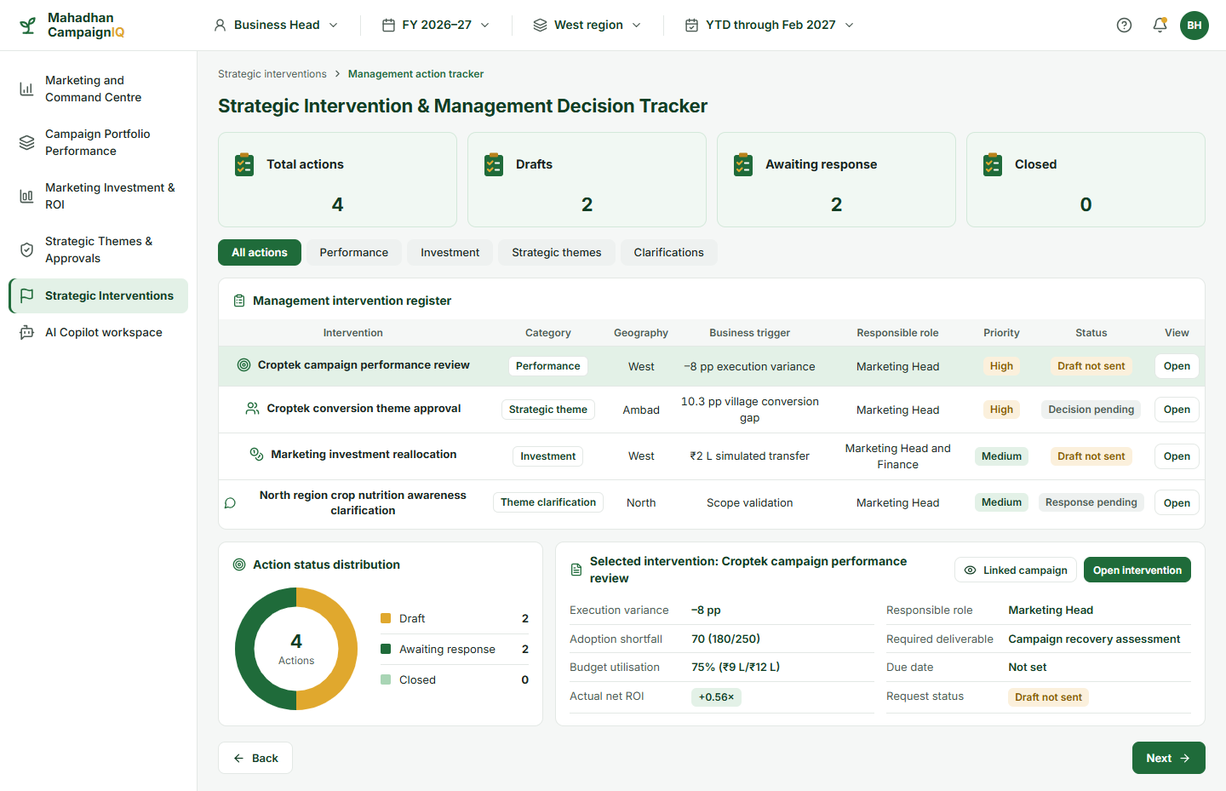
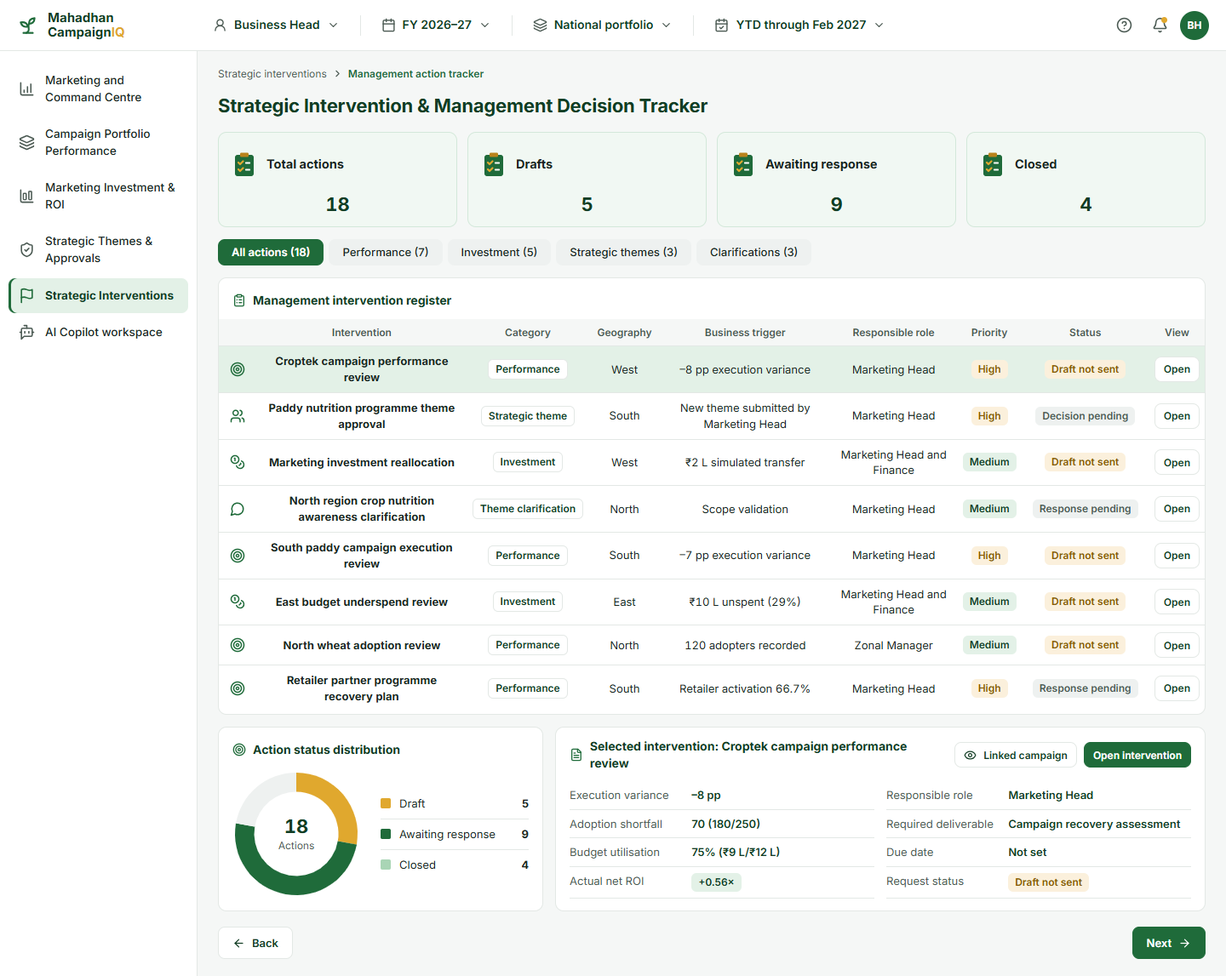
MH phase 1: Marketing Head data and tests, shared theme lifecycle with BH and ZM

diff --git a/campaigniq-v3/src/data/mh.ts b/campaigniq-v3/src/data/mh.ts
@@ -1,0 +1,160 @@
+/**
+ * Marketing Head data: national and regional opportunity, plan reviews, diagnosis and investigation, recommendations,
+ * proposals, rollout and performance. Shared figures are read from bh.ts, zm.ts and fsm.ts so every persona agrees.
+ * Money in ₹ lakh unless noted.
+ */
+import type { MhRegionId } from '../routes';
+import { AMBAD, ambadMetrics, CAMPAIGNS, campaignById, netRoi, NATIONAL, REGIONS, regionById, regionRoi, THEMES, type ThemeId } from './bh';
+import { ratio, sum } from './format';
+import { coverageCalc, ONION_VILLAGE_PLAN } from './fsm';
+import {
+  approvalQueue, businessCaseC1, businessCaseC2, CROPTEK_EVIDENCE, impactRows, REGIONAL_ENVELOPE, scenariosFor, territoryPlan, trialToPurchasePct,
+  ZM_TERRITORY_IDS, zmTerritoryName,
+} from './zm';
+
+// ---------------------------------------------------------------- regions (national view)
+export interface RegionOpportunity {
+  id: MhRegionId; market: number; /** ₹ Cr addressable market */ crop: string; product: string; marketRange: [number, number]; /** ₹ Cr, priority crop · product */
+  penetration: [number, number]; trend: number[]; /** ₹ L secondary sales Q1–Q4 */ level: 'High' | 'Medium–High' | 'Medium'; gap: string;
+}
+/** Addressable market per region (₹ Cr) sums to the ₹1,350 Cr national figure; West's priority market is Maharashtra onion. */
+export const REGION_OPPORTUNITY: RegionOpportunity[] = [
+  { id: 'west', market: 420, crop: 'Onion', product: 'Croptek', marketRange: [7, 10], penetration: CROPTEK_EVIDENCE.penetrationRange, trend: CROPTEK_EVIDENCE.secondarySales.map((q) => q.v), level: 'High', gap: 'High potential, under-indexing' },
+  { id: 'south', market: 380, crop: 'Paddy', product: 'Croptek', marketRange: [6, 9], penetration: [16, 20], trend: [34, 36, 39, 41], level: 'High', gap: 'Strong momentum, scale further' },
+  { id: 'north', market: 310, crop: 'Wheat', product: 'Croptek', marketRange: [5, 7], penetration: [12, 15], trend: [22, 23, 25, 26], level: 'Medium–High', gap: 'Stable, improve penetration' },
+  { id: 'east', market: 240, crop: 'Paddy', product: 'Croptek', marketRange: [3, 5], penetration: [9, 12], trend: [18, 19, 21, 23], level: 'Medium', gap: 'Emerging expansion opportunity' },
+];
+export const NATIONAL_MARKET = () => sum(REGION_OPPORTUNITY, (r) => r.market);
+export const regionName = (r: MhRegionId) => regionById(r).name;
+
+/** Region rows: opportunity plus the Business Head figures (sales, campaigns, adopters, investment, ROI). */
+export const regionRows = () => REGION_OPPORTUNITY.map((o) => {
+  const r = regionById(o.id);
+  const t = o.trend;
+  return {
+    ...o, name: r.name, abp: r.abp, achieved: r.achieved, campaigns: r.campaigns, adopters: r.adopters, investment: r.actual,
+    validatedSales: r.sales, roi: regionRoi(r), trendTotal: sum(t, (x) => x), trendGrowthPct: ratio(t[t.length - 1] - t[0], t[0]),
+  };
+});
+export const nationalRow = () => ({
+  market: NATIONAL_MARKET(), abp: NATIONAL.abp, achieved: NATIONAL.achieved, campaigns: NATIONAL.campaigns, adopters: NATIONAL.adopters,
+  investment: NATIONAL.actual, validatedSales: sum(REGIONS, (r) => r.sales), roi: netRoi(sum(REGIONS, (r) => r.sales), NATIONAL.actual),
+});
+
+// ---------------------------------------------------------------- historical campaign effectiveness (Business Head themes)
+const THEME_RANGES: Record<ThemeId, { engagement: [number, number]; adoption: [number, number]; confidence: 'Verified' | 'Estimated' | 'Partial attribution' }> = {
+  conversion: { engagement: [45, 55], adoption: [14, 20], confidence: 'Verified' },
+  retailer: { engagement: [58, 66], adoption: [8, 13], confidence: 'Estimated' },
+  trial: { engagement: [40, 50], adoption: [9, 15], confidence: 'Estimated' },
+  awareness: { engagement: [70, 78], adoption: [6, 10], confidence: 'Partial attribution' },
+};
+export const themeEffectiveness = () => THEMES.map((t) => ({ ...t, ...THEME_RANGES[t.id], roi: netRoi(t.sales, t.investment) }));
+
+// ---------------------------------------------------------------- West states and the Maharashtra onion market
+export const WEST_STATES: { state: string; market: [number, number]; penetration: [number, number] }[] = [
+  { state: 'Maharashtra', market: [7, 10], penetration: CROPTEK_EVIDENCE.penetrationRange },
+  { state: 'Gujarat', market: [5, 7], penetration: [18, 22] },
+  { state: 'Madhya Pradesh', market: [4, 6], penetration: [12, 16] },
+  { state: 'Rajasthan', market: [3, 5], penetration: [16, 20] },
+];
+export const westSalesTotal = () => sum(CROPTEK_EVIDENCE.secondarySales, (q) => q.v);
+/** Previous Croptek campaign effectiveness in Maharashtra onion. */
+export const PREVIOUS_CAMPAIGNS: { intervention: string; engagementPct: number; evidence: string; confidence: 'High' | 'Moderate' | 'Limited' }[] = [
+  { intervention: 'Retailer activation', engagementPct: 62, evidence: 'Higher offtake at participating outlets', confidence: 'High' },
+  { intervention: 'Conversion', engagementPct: 45, evidence: 'Improved product trials and repeat', confidence: 'Moderate' },
+  { intervention: 'Awareness', engagementPct: 74, evidence: 'Strong reach and interest generation', confidence: 'Limited' },
+];
+
+// ---------------------------------------------------------------- business and crop plans (from the Zonal Manager data)
+export type MhPlanStatus = 'reviewed' | 'under_review' | 'not_started' | 'clarification';
+export const MH_PLAN_LABEL: Record<MhPlanStatus, string> = { reviewed: 'Endorsed by Zonal Manager', under_review: 'Under review', not_started: 'Not started', clarification: 'Clarification requested' };
+/** West plans by state; Maharashtra rolls up the Zonal Manager's Marathwada territory plans. */
+export const WEST_PLANS: { id: string; state: string; crop: string; product: string; focus: string; objective: number; intervention: string; base: MhPlanStatus }[] = [
+  { id: 'maharashtra', state: 'Maharashtra', crop: 'Onion', product: 'Croptek', focus: 'Conversion', objective: CROPTEK_EVIDENCE.planLinkage, intervention: 'Retailer-led Croptek conversion', base: 'reviewed' },
+  { id: 'gujarat', state: 'Gujarat', crop: 'Priority crops', product: 'Crop nutrition', focus: 'Portfolio penetration', objective: 18, intervention: 'Awareness and portfolio education', base: 'under_review' },
+  { id: 'madhya-pradesh', state: 'Madhya Pradesh', crop: 'Priority crops', product: 'Croptek and portfolio', focus: 'Adoption', objective: 12, intervention: 'Adoption and trial support', base: 'not_started' },
+  { id: 'rajasthan', state: 'Rajasthan', crop: 'Priority crops', product: 'Nutrition portfolio', focus: 'Channel coverage', objective: 10, intervention: 'Channel activation and product visibility', base: 'not_started' },
+];
+/** Ambad contributing plan (equal to FSM and ZM): ABP, approved onion allocation and the onion growth objective. */
+export const ambadPlan = () => {
+  const p = territoryPlan('ambad');
+  return { abp: p.abp, plan: p.plan, onionAllocation: AMBAD.onionAbp, growthObjective: CROPTEK_EVIDENCE.planLinkage, croptekSku: p.croptekSku };
+};
+/** Other Maharashtra territories in the zone (consolidated). */
+export const otherMaharashtra = () => ZM_TERRITORY_IDS.filter((t) => t !== 'ambad').map((t) => territoryPlan(t));
+/** Village-wise Ambad onion plan: the FSM plan with its coverage calculation. */
+export const ambadVillages = () => ONION_VILLAGE_PLAN.map((v) => ({ ...v, calc: coverageCalc(v) }));
+
+// ---------------------------------------------------------------- diagnosis and investigation
+export const BARRIERS: { id: string; barrier: string; question: string; before: string; after: string; beforeTone: 'warn' | 'neutral'; afterTone: 'ok' | 'warn' | 'risk' }[] = [
+  { id: 'awareness', barrier: 'Awareness', question: 'Do eligible farmers know Croptek and its crop-stage use?', before: 'Unverified', after: 'Partly confirmed: 65% reached', beforeTone: 'warn', afterTone: 'warn' },
+  { id: 'conversion', barrier: 'Conversion', question: 'Do trials turn into purchases?', before: 'Not linked', after: 'Confirmed: 36% trial-to-purchase', beforeTone: 'warn', afterTone: 'risk' },
+  { id: 'channel', barrier: 'Channel', question: 'Do retailers recommend and stock Croptek?', before: 'Unverified', after: 'Partly confirmed: retailer evidence received', beforeTone: 'warn', afterTone: 'warn' },
+  { id: 'retention', barrier: 'Retention', question: 'Do buyers repeat next season?', before: 'No data', after: 'Not yet measurable this season', beforeTone: 'neutral', afterTone: 'warn' },
+];
+/** Funnel: 1,200 eligible → 780 reached → 150 trials → purchases (linked once the evidence is validated). */
+export const FUNNEL = { eligible: 1200, reached: 780, trials: CROPTEK_EVIDENCE.trials, purchases: CROPTEK_EVIDENCE.purchases };
+export const funnel = (purchasesLinked: boolean) => ({
+  ...FUNNEL, purchases: purchasesLinked ? FUNNEL.purchases : null,
+  reachPct: ratio(FUNNEL.reached, FUNNEL.eligible), trialPct: ratio(FUNNEL.trials, FUNNEL.reached),
+  trialToPurchasePct: purchasesLinked ? trialToPurchasePct() : null,
+});
+export type RequestStatus = 'draft' | 'requested' | 'received' | 'validated';
+export const REQUEST_STATUS_LABEL: Record<RequestStatus, string> = { draft: 'Draft', requested: 'Requested', received: 'Evidence received', validated: 'Validated' };
+export const EVIDENCE_REQUESTS: { id: string; title: string; owner: string; due: string; requirements: string[]; checklist: string[] }[] = [
+  { id: 'purchases', title: 'Farmer-linked purchase records', owner: 'Zonal analyst', due: '20 Feb 2027', requirements: ['Farmer ID or mobile number', 'Croptek SKU and quantity', 'Purchase date within the campaign window'], checklist: ['Records matched to trial farmers', 'Duplicates removed', 'Dates inside the campaign window'] },
+  { id: 'awareness', title: 'Awareness and call outcomes', owner: 'Field Sales Manager · Ambad', due: '22 Feb 2027', requirements: ['Reached farmer list', 'Call outcome codes', 'Consent status'], checklist: ['Reach list reconciled', 'Outcome codes complete', 'Consent recorded'] },
+  { id: 'retailer', title: 'Retailer recommendation evidence', owner: 'Retail operations', due: '24 Feb 2027', requirements: ['Retailers briefed', 'Recommendation logs', 'Stock on hand'], checklist: ['Retailer list matches the mapped outlets', 'Recommendation logs present', 'Stock confirmed'] },
+];
+/** Status progression when the Marketing Head requests and reviews evidence. */
+export const nextRequestStatus = (s: RequestStatus): RequestStatus => (s === 'draft' ? 'requested' : s === 'requested' ? 'received' : 'validated');
+
+// ---------------------------------------------------------------- recommendations
+export interface Recommendation { id: string; name: string; theme: ThemeId; leading: boolean; before: 'Medium' | 'Low' | 'Medium-low'; after: 'High' | 'Medium' | 'Medium-low'; rationale: string; missing: string[]; suitability: string }
+export const RECOMMENDATIONS: Recommendation[] = [
+  { id: 'croptek-conversion', name: 'Croptek conversion', theme: 'conversion', leading: true, before: 'Medium', after: 'High', rationale: 'Large onion market with 14–18% penetration, rising secondary sales and a measured trial-to-purchase gap.', missing: ['Comparable baseline', 'Retailer stock norms'], suitability: 'Fits the Ambad onion growth objective and the conversion theme (+0.40× historical ROI).' },
+  { id: 'product-awareness', name: 'Product awareness', theme: 'awareness', leading: false, before: 'Medium-low', after: 'Medium-low', rationale: 'Reach is already 65% of eligible farmers; awareness alone shows the lowest historical return.', missing: ['Awareness lift measure'], suitability: 'Supports conversion but returns +0.10× on its own.' },
+  { id: 'retailer-advocacy', name: 'Retailer advocacy', theme: 'retailer', leading: false, before: 'Low', after: 'Medium', rationale: 'Retailer recommendation evidence links to higher offtake at participating outlets.', missing: ['Retailer participation plan'], suitability: 'Pairs with conversion as its channel lever (+0.40× historical ROI).' },
+];
+export const themeRoi = (t: ThemeId) => { const x = THEMES.find((y) => y.id === t)!; return netRoi(x.sales, x.investment); };
+
+// ---------------------------------------------------------------- proposals (equal to the Zonal Manager figures)
+export const proposals = () => {
+  const c1 = businessCaseC1();
+  const c2 = businessCaseC2();
+  return [
+    { id: 'c1', code: 'C1', name: 'Retailer-led Croptek conversion', investment: c1.investment, sales: c1.forecastSales, contribution: c1.contribution, roi: c1.netRoi, scenarios: scenariosFor() },
+    { id: 'c2', code: 'C2', name: 'Trial-to-purchase farmer nurture', investment: c2.investment, sales: c2.forecastSales, contribution: c2.contribution, roi: c2.netRoi, scenarios: null },
+  ];
+};
+export const APPROVAL_ITEMS: { id: string; item: string; mandatory: boolean; base: 'verified' | 'pending' }[] = [
+  { id: 'abp', item: 'Business plan linkage (₹25 L inside the Ambad ABP)', mandatory: true, base: 'verified' },
+  { id: 'claims', item: 'Technical claims and collateral validated', mandatory: true, base: 'pending' },
+  { id: 'envelope', item: 'Regional envelope (₹12.0 L) approved', mandatory: true, base: 'verified' },
+  { id: 'overlap', item: 'C1 / C2 audience overlap resolved', mandatory: true, base: 'pending' },
+  { id: 'baseline', item: 'Incrementality baseline agreed', mandatory: false, base: 'pending' },
+];
+
+// ---------------------------------------------------------------- rollout
+export const ROLLOUT_ENVELOPE = () => REGIONAL_ENVELOPE();
+export type RolloutStatus = 'running' | 'eligible' | 'pending' | 'not_eligible';
+export const ROLLOUT_LABEL: Record<RolloutStatus, string> = { running: 'Running', eligible: 'Eligible', pending: 'Plan pending', not_eligible: 'Not eligible' };
+export const rolloutTerritories = () => {
+  const q = approvalQueue();
+  const base: Record<string, RolloutStatus> = { ambad: 'running', ghansawangi: 'eligible', badnapur: 'pending', jafrabad: 'pending', bhokardan: 'eligible' };
+  return [
+    ...ZM_TERRITORY_IDS.map((t) => ({ id: t, name: zmTerritoryName(t), fsm: `Field Sales Manager · ${zmTerritoryName(t)}`, budget: q.find((x) => x.territory === t)!.budget, status: base[t] })),
+    { id: 'other', name: 'Other Maharashtra territories', fsm: 'Field Sales Managers (4)', budget: 2.3, status: 'pending' as RolloutStatus },
+  ];
+};
+export const STAGE_COUNTS = [{ stage: 'Published', n: 12 }, { stage: 'Submitted', n: 8 }, { stage: 'Approved', n: 6 }, { stage: 'Running', n: 4 }];
+
+// ---------------------------------------------------------------- performance (equal to the Business Head)
+export const westCampaigns = () => CAMPAIGNS.map((c) => ({ ...c, variance: c.observedExec - c.plannedExec, roi: netRoi(c.sales, c.actual) }));
+export const programmeVariance = () => { const c = campaignById('croptek'); return c.observedExec - c.plannedExec; };
+export const INTERVENTION_PERFORMANCE: { id: string; name: string; planned: number; observed: number }[] = [
+  { id: 'retailer', name: 'Retailer-led activation', planned: 80, observed: 72 },
+  { id: 'followup', name: 'Farmer follow-up', planned: 70, observed: 48 },
+];
+export const territoryImpact = () => impactRows();
+export const ambadSummary = () => ambadMetrics();

diff --git a/campaigniq-v3/src/data/mh.test.ts b/campaigniq-v3/src/data/mh.test.ts
@@ -1,0 +1,85 @@
+import { describe, expect, it } from 'vitest';
+import { AMBAD, ambadMetrics, businessCase, NATIONAL, REGIONS, THEME_QUEUE, territoryById } from './bh';
+import { sum } from './format';
+import { ONION_VILLAGE_PLAN } from './fsm';
+import {
+  ambadPlan, ambadVillages, APPROVAL_ITEMS, EVIDENCE_REQUESTS, funnel, NATIONAL_MARKET, nationalRow, nextRequestStatus, proposals, RECOMMENDATIONS,
+  REGION_OPPORTUNITY, regionRows, rolloutTerritories, ROLLOUT_ENVELOPE, STAGE_COUNTS, themeEffectiveness, WEST_STATES, westCampaigns, westSalesTotal,
+  programmeVariance, INTERVENTION_PERFORMANCE,
+} from './mh';
+import { businessCaseC1, ZM_THEMES, zmImpact } from './zm';
+
+const r1 = (x: number) => Math.round(x * 10) / 10;
+const r2 = (x: number) => Math.round(x * 100) / 100;
+
+describe('national and regional opportunity', () => {
+  it('regions sum to the national figures and equal the Business Head regions', () => {
+    expect(NATIONAL_MARKET()).toBe(1350);
+    const rows = regionRows();
+    expect(rows.map((r) => [r.abp, r.campaigns, r.adopters, r.investment, r.validatedSales])).toEqual(REGIONS.map((r) => [r.abp, r.campaigns, r.adopters, r.actual, r.sales]));
+    const n = nationalRow();
+    expect([n.abp, n.campaigns, n.adopters, n.investment]).toEqual([NATIONAL.abp, NATIONAL.campaigns, NATIONAL.adopters, NATIONAL.actual]);
+    expect(REGION_OPPORTUNITY.map((r) => `${r.crop} · ${r.product}`)).toEqual(['Onion · Croptek', 'Paddy · Croptek', 'Wheat · Croptek', 'Paddy · Croptek']);
+  });
+  it('historical effectiveness = Business Head themes: ₹2.56 / 1.92 / 1.70 / 0.88 Cr at +0.40 / +0.40 / +0.19 / +0.10×', () => {
+    expect(themeEffectiveness().map((t) => [t.sales, r2(t.roi)])).toEqual([[256, 0.4], [192, 0.4], [170, 0.19], [88, 0.1]]);
+  });
+  it('Maharashtra onion: ₹7–10 Cr, 14–18%, ₹40 → 48 L, ₹1.76 Cr over four quarters; 4 West states', () => {
+    expect(WEST_STATES[0]).toEqual({ state: 'Maharashtra', market: [7, 10], penetration: [14, 18] });
+    expect(westSalesTotal()).toBe(176);
+    expect(WEST_STATES).toHaveLength(4);
+  });
+});
+
+describe('plans, diagnosis and recommendations', () => {
+  it('Ambad plan equals FSM / ZM: ₹4.20 Cr ABP, ₹1.90 Cr onion allocation, ₹25 L objective; villages from FSM', () => {
+    const a = ambadPlan();
+    expect([a.abp, a.onionAllocation, a.growthObjective, a.plan]).toEqual([territoryById('ambad')!.abp, AMBAD.onionAbp, 25, 380]);
+    expect(ambadVillages().map((v) => v.village)).toEqual(ONION_VILLAGE_PLAN.map((v) => v.village));
+  });
+  it('funnel: 1,200 → 780 → 150 → 54 purchases once linked (36%)', () => {
+    expect(funnel(false).purchases).toBeNull();
+    const f = funnel(true);
+    expect([f.eligible, f.reached, f.trials, f.purchases, f.trialToPurchasePct]).toEqual([1200, 780, 150, 54, 36]);
+  });
+  it('3 evidence requests progress draft → requested → received → validated; 3 recommendations, Croptek leading', () => {
+    expect(EVIDENCE_REQUESTS).toHaveLength(3);
+    expect(['draft', 'requested', 'received'].map((s) => nextRequestStatus(s as never))).toEqual(['requested', 'received', 'validated']);
+    expect(RECOMMENDATIONS.filter((r) => r.leading).map((r) => r.name)).toEqual(['Croptek conversion']);
+  });
+});
+
+describe('theme lifecycle and proposals', () => {
+  it('lifecycle agrees: BH approved Croptek conversion, ZM acknowledged it; 3 BH items pending', () => {
+    expect(THEME_QUEUE.find((t) => t.id === 'croptek-next')!.status).toBe('approved');
+    expect(THEME_QUEUE.filter((t) => t.status !== 'approved').map((t) => t.name)).toEqual(['Multi-region retailer advocacy', 'North region crop nutrition awareness', 'Paddy nutrition programme']);
+    expect(ZM_THEMES.find((t) => t.id === 'croptek-conversion')!.status).toBe('acknowledged');
+    expect(ZM_THEMES.map((t) => t.name)).toEqual(['Croptek conversion', 'Nutrient programme adoption', 'Balanced nutrition awareness']);
+  });
+  it('proposal ROIs follow (sales × 35% − investment) ÷ investment and equal ZM / BH', () => {
+    const [c1, c2] = proposals();
+    expect([c1.investment, c1.sales, r1(c1.contribution), r2(c1.roi)]).toEqual([12, 48, 16.8, 0.4]);
+    expect(c1.roi).toBeCloseTo(businessCase('croptek').netRoi, 10);
+    expect(c1.scenarios!.map((s) => [r1(s.sales), r2(s.netRoi)])).toEqual([[36, 0.05], [48, 0.4], [60, 0.75]]);
+    expect([c2.investment, c2.sales, r1(c2.contribution), c2.roi]).toEqual([8, 28, 9.8, 0.23]);
+    expect(c1.investment).toBe(businessCaseC1().investment);
+    expect(APPROVAL_ITEMS.filter((i) => i.mandatory).length).toBe(4);
+  });
+});
+
+describe('rollout and performance', () => {
+  it('rollout budgets fill the ₹12.0 L envelope; Ambad running; stage counts 12 → 8 → 6 → 4', () => {
+    expect(r2(sum(rolloutTerritories(), (t) => t.budget))).toBe(ROLLOUT_ENVELOPE());
+    expect(rolloutTerritories().find((t) => t.id === 'ambad')!.status).toBe('running');
+    expect(STAGE_COUNTS.map((s) => s.n)).toEqual([12, 8, 6, 4]);
+  });
+  it('West, Croptek and Ambad equal BH: 80% / 72%, 180 adopters, +0.56×, −8 pp; follow-up −22 pp', () => {
+    const c = westCampaigns().find((x) => x.id === 'croptek')!;
+    expect([c.plannedExec, c.observedExec, c.adopters, r2(c.roi)]).toEqual([80, 72, 180, 0.56]);
+    expect(programmeVariance()).toBe(-8);
+    expect(INTERVENTION_PERFORMANCE.map((i) => i.observed - i.planned)).toEqual([-8, -22]);
+    const z = zmImpact();
+    const a = ambadMetrics();
+    expect([z.trials, z.adopters, z.activitiesDone]).toEqual([a.trials, a.adopters, a.activitiesDone]);
+  });
+});

diff --git a/campaigniq-v3/src/data/bh.ts b/campaigniq-v3/src/data/bh.ts
@@ -312,9 +312,10 @@ export interface ThemeProposal {
 }
 
 export const THEME_QUEUE: ThemeProposal[] = [
-  { id: 'croptek-next', name: 'Croptek conversion', geography: 'West / Maharashtra', state: 'Maharashtra', region: 'west', cropProduct: 'Onion / Croptek', crop: 'Onion', product: 'Croptek', proposedBy: 'Marketing Head', priority: 'High', status: 'review_pending', objective: 'Farmer conversion', cohort: 'Eligible non-adopters and trial users', focus: 'Conversion & adoption' },
+  { id: 'croptek-next', name: 'Croptek conversion', geography: 'West / Maharashtra', state: 'Maharashtra', region: 'west', cropProduct: 'Onion / Croptek', crop: 'Onion', product: 'Croptek', proposedBy: 'Marketing Head', priority: 'High', status: 'approved', objective: 'Farmer conversion', cohort: 'Eligible non-adopters and trial users', focus: 'Conversion & adoption' },
   { id: 'retailer-advocacy', name: 'Multi-region retailer advocacy', geography: 'Multi-region', state: 'Multi-region', region: 'multi', cropProduct: 'Pending validation', crop: null, product: null, proposedBy: 'Marketing Head', priority: 'High', status: 'review_pending', objective: 'Retailer advocacy', cohort: 'Priority retailers', focus: 'Retailer enablement' },
   { id: 'north-awareness', name: 'North region crop nutrition awareness', geography: 'North', state: 'North region', region: 'north', cropProduct: 'Pending', crop: null, product: null, proposedBy: 'Marketing Head', priority: 'Medium', status: 'clarification_requested', objective: 'Crop nutrition awareness', cohort: 'Pending', focus: 'Crop nutrition awareness' },
+  { id: 'paddy-south', name: 'Paddy nutrition programme', geography: 'South', state: 'South region', region: 'south', cropProduct: 'Paddy / Croptek', crop: 'Paddy', product: 'Croptek', proposedBy: 'Marketing Head', priority: 'Medium', status: 'review_pending', objective: 'Nutrition programme adoption', cohort: 'Paddy growers in mapped retailer catchments', focus: 'Conversion & adoption' },
 ];
 
 /** Theme candidates surfaced by the market opportunity view (Ambad / Onion / Croptek evidence). */
@@ -349,10 +350,9 @@ export interface Intervention {
 
 export const initialInterventions = (): Intervention[] => {
   const c = campaignMetrics(campaignById('croptek'));
-  const a = ambadMetrics();
   return [
     { id: 'croptek-review', name: 'Croptek campaign performance review', category: 'Performance', geography: 'West', trigger: `${c.execVariance} pp execution variance`.replace('-', '–'), role: 'Marketing Head', priority: 'High', status: 'draft', statusLabel: 'Draft not sent', campaign: 'croptek', deliverable: 'Campaign recovery assessment' },
-    { id: 'croptek-theme-approval', name: 'Croptek conversion theme approval', category: 'Strategic theme', geography: 'Ambad', trigger: `${a.villageGap.toFixed(1)} pp village conversion gap`, role: 'Marketing Head', priority: 'High', status: 'awaiting_response', statusLabel: 'Decision pending', deliverable: 'Theme decision' },
+    { id: 'paddy-theme-approval', name: 'Paddy nutrition programme theme approval', category: 'Strategic theme', geography: 'South', trigger: 'New theme submitted by Marketing Head', role: 'Marketing Head', priority: 'High', status: 'awaiting_response', statusLabel: 'Decision pending', deliverable: 'Theme decision' },
     { id: 'reallocation', name: 'Marketing investment reallocation', category: 'Investment', geography: 'West', trigger: `₹${DEFAULT_REALLOCATION.amount} L simulated transfer`, role: 'Marketing Head and Finance', priority: 'Medium', status: 'draft', statusLabel: 'Draft not sent', deliverable: 'Finance validation of reallocation' },
     { id: 'north-clarification', name: 'North region crop nutrition awareness clarification', category: 'Theme clarification', geography: 'North', trigger: 'Scope validation', role: 'Marketing Head', priority: 'Medium', status: 'awaiting_response', statusLabel: 'Response pending', deliverable: 'Clarified theme scope' },
     { id: 'south-paddy-review', name: 'South paddy campaign execution review', category: 'Performance', geography: 'South', trigger: '–7 pp execution variance', role: 'Marketing Head', priority: 'High', status: 'draft', statusLabel: 'Draft not sent', deliverable: 'Campaign recovery assessment' },

diff --git a/campaigniq-v3/src/screens/zm/Business.tsx b/campaigniq-v3/src/screens/zm/Business.tsx
@@ -294,8 +294,8 @@ export function AudienceReconciliation() {
 }
 
 // ================================================================ 18 Proposal Review and Submission
-const STATUS_LABEL: Record<ProposalStatus, string> = { draft: 'Checks pending', submitted: 'Submitted · returned for revision', resubmitted: 'Resubmitted to Marketing Head' };
-const STATUS_TONE: Record<ProposalStatus, Tone> = { draft: 'warn', submitted: 'risk', resubmitted: 'ok' };
+const STATUS_LABEL: Record<ProposalStatus, string> = { draft: 'Checks pending', submitted: 'Submitted to Marketing Head', returned: 'Returned for revision', resubmitted: 'Resubmitted to Marketing Head', approved: 'Approved by Marketing Head' };
+const STATUS_TONE: Record<ProposalStatus, Tone> = { draft: 'warn', submitted: 'warn', returned: 'risk', resubmitted: 'warn', approved: 'ok' };
 function useProposalFigures() {
   const d = useDrivers();
   const zm = useZmStore();
@@ -348,7 +348,7 @@ export function ProposalReview() {
             { key: 'n', header: 'Forecast contribution', align: 'right', render: (p) => l1(f(p.id).contribution) },
             { key: 'r', header: 'Forecast net ROI', align: 'right', render: (p) => times(f(p.id).roi) },
             { key: 'v', header: 'Status', align: 'center', render: (p) => <StatusChip tone={STATUS_TONE[st(p.id)]}>{STATUS_LABEL[st(p.id)]}</StatusChip> },
-            { key: 'a', header: 'Review', align: 'center', render: (p) => (st(p.id) === 'submitted'
+            { key: 'a', header: 'Review', align: 'center', render: (p) => (st(p.id) === 'returned'
               ? <Button small primary icon={History} onClick={() => go(Z.revise(p.id))}>Revise</Button>
               : <Button small icon={Eye} onClick={() => setFocus(p.id)}>Review</Button>) },
           ]} />
@@ -477,7 +477,7 @@ export function ProposalRevision() {
   };
   return (
     <ZmPage {...ZM_SECTION.studio} trail="Returned proposals" title="Revision and Resubmission Workspace" back={Z.proposals} next={resubmit} nextLabel="Resubmit revised proposal to Marketing Head"
-      right={<StatusChip tone={status === 'resubmitted' ? 'ok' : status === 'submitted' ? 'risk' : 'neutral'}>{status === 'resubmitted' ? 'Resubmitted' : status === 'submitted' ? 'Returned for revision · not approved' : 'Not yet submitted'}</StatusChip>}>
+      right={<StatusChip tone={STATUS_TONE[status]}>{status === 'returned' ? 'Returned for revision · not approved' : STATUS_LABEL[status]}</StatusChip>}>
       <StudioTabs active={4} />
       <div className="kpis">
         <KpiCard label="Submitted investment (version 1)" value={l1(d.investment)} />

diff --git a/campaigniq-v3/src/store/zmStore.tsx b/campaigniq-v3/src/store/zmStore.tsx
@@ -72,14 +72,14 @@ export interface DraftSetup { audience: string; language: string; objective: str
 
 export interface InterventionConfig { objective: string; behaviour: string; participants: string; types: string[]; channel: string; crop: string; geography: string; window: string; resources: string }
 
-const KEY = 'campaigniq.v3.zm.7';
+const KEY = 'campaigniq.v3.zm.8';
 const INITIAL: ZmState = { scope: 'zone', portfolio: 'crop-nutrition', planDecisions: {}, mapping: {}, mappingChecks: {}, comments: {}, cropValidated: {}, questions: {}, responses: {},
   themeStatus: {}, acknowledgements: {}, clarifications: [], concepts: null, selectedConcepts: ['c1'],
   workspace: { intent: 'Drive eligible first-purchase conversion under Croptek.', behaviour: 'Move from recommendation or trial to first purchase.', notes: '' },
   compareDecision: 'separate', proposition: {}, interventions: {}, readinessChecks: [], claims: {},
   template: 'detailer', draftSetup: null, versions: null, reviews: {}, submittedForReview: false, assetStatus: {}, playbookIncluded: ['detailer'], released: false,
   drivers: null, scenario: 'base', financeRequested: false, reconDecision: 'separate',
-  proposalStatus: { c1: 'draft', c2: 'draft' }, selectedProposals: ['c1'], submissionChecks: [], revision: null,
+  proposalStatus: { c1: 'submitted', c2: 'submitted' }, selectedProposals: ['c1'], submissionChecks: [], revision: null,
   approvalStatus: {}, accepted: {}, activityChecks: {}, escalated: {},
   learningSaved: false, recSelected: null, recPriority: {}, recOption: 'submit', recStatus: 'draft', asked: [] };
 

diff --git a/campaigniq-v3/src/data/zm.ts b/campaigniq-v3/src/data/zm.ts
@@ -220,7 +220,7 @@ export interface ZmTheme {
 }
 export const ZM_THEMES: ZmTheme[] = [
   {
-    id: 'croptek-conversion', name: 'Croptek conversion', crop: 'Onion', product: 'Croptek', geography: 'Maharashtra', region: 'West region', status: 'acknowledgement_pending', assignedBy: 'Marketing Head', due: '15 Mar 2027',
+    id: 'croptek-conversion', name: 'Croptek conversion', crop: 'Onion', product: 'Croptek', geography: 'Maharashtra', region: 'West region', status: 'acknowledged', assignedBy: 'Marketing Head', due: '15 Mar 2027',
     objective: 'Strengthen eligible farmer conversion and Croptek adoption.',
     scope: 'Maharashtra · Onion (initial focus); other West region markets after eligibility checks.',
     audience: 'Conventional nutrition and trial-interest farmers who meet eligibility and consent.',
@@ -491,7 +491,8 @@ export const reconciliation = (d: Drivers = DRIVERS) => {
 };
 
 // ---------------------------------------------------------------- proposals and revision
-export type ProposalStatus = 'draft' | 'submitted' | 'resubmitted';
+/** Proposal lifecycle shared with the Marketing Head: submitted to MH, returned for revision, resubmitted, approved. */
+export type ProposalStatus = 'draft' | 'submitted' | 'returned' | 'resubmitted' | 'approved';
 export const PROPOSALS: { id: 'c1' | 'c2'; label: string; focus: string }[] = [
   { id: 'c1', label: 'Proposal A', focus: 'Convert conventional nutrition users through retailer influence' },
   { id: 'c2', label: 'Proposal B', focus: 'Drive trials and nurture to purchase in target villages' },

diff --git a/campaigniq-v3/src/shell/Shell.tsx b/campaigniq-v3/src/shell/Shell.tsx
@@ -88,7 +88,7 @@ export function Shell({ session, onSignOut }: { session: Session; onSignOut: () 
   const me = PERSONAS.find((p) => p.id === persona)!;
   const nav_ = isFsm ? NAV_FSM : isZm ? NAV_ZM : isMh ? NAV_MH : NAV;
   const active = isFsm ? fsmNavKeyOf(pathname) : isZm ? zmNavKeyOf(pathname) : isMh ? mhNavKeyOf(pathname) : navKeyOf(pathname);
-  const zmAlerts = zm.proposalStatus.c1 === 'submitted' ? [{ id: 'mh-return-c1', text: 'Marketing Head returned C1 for revision', to: Z.revise('c1') }] : [];
+  const zmAlerts = zm.proposalStatus.c1 === 'returned' ? [{ id: 'mh-return-c1', text: 'Marketing Head returned C1 for revision', to: Z.revise('c1') }] : [];
   const alerts = isFsm || isMh ? [] : isZm ? zmAlerts : attentionItems(store.themeStatus);
   const scopes: { id: string; label: string }[] = isFsm ? FSM_SCOPES : isZm ? ZM_SCOPES : isMh ? MH_SCOPES : SCOPES;
   const scopeId: string = isFsm ? fsm.scope : isZm ? zm.scope : isMh ? mh.scope : store.scope;

diff --git a/campaigniq-v3/src/data/zm.test.ts b/campaigniq-v3/src/data/zm.test.ts
@@ -137,8 +137,8 @@ describe('plan reviews (screens 1–5)', () => {
 });
 
 describe('themes, concepts and proposition (screens 6–9)', () => {
-  it('three assigned themes; Croptek awaits acknowledgement', () => {
-    expect(ZM_THEMES.map((t) => [t.crop, t.status])).toEqual([['Onion', 'acknowledgement_pending'], ['Soybean', 'under_review'], ['Cotton', 'planned']]);
+  it('three assigned themes; Croptek acknowledged (its proposals are with the Marketing Head)', () => {
+    expect(ZM_THEMES.map((t) => [t.crop, t.status])).toEqual([['Onion', 'acknowledged'], ['Soybean', 'under_review'], ['Cotton', 'planned']]);
     expect(secondaryTrend()).toBe('₹40 L → ₹43 L → ₹45 L → ₹48 L');
   });
   it('C1 rationale: 3 observed market items and 4 suitability items', () => {

diff --git a/campaigniq-v3/src/store/bhStore.tsx b/campaigniq-v3/src/store/bhStore.tsx
@@ -34,7 +34,7 @@ interface State {
   learningSubmitted: boolean;
 }
 
-const KEY = 'campaigniq.v3.bh.3'; // bumped when the stored shape or seeded records change
+const KEY = 'campaigniq.v3.bh.4'; // bumped when the stored shape or seeded records change
 
 const initial = (): State => ({
   scope: 'national',

diff --git a/campaigniq-v3/README.md b/campaigniq-v3/README.md
@@ -89,6 +89,7 @@ Marketing Head personas follow the same pattern (persona id `pm` / `mh`, mockups
 | Phase | Scope | Status |
 |---|---|---|
 | 0 | Mockups (`docs/mockups/marketing-head/`, 26), routes (`M` in `src/routes.ts`), 7-item sidebar, persona switch (all four personas built), top bar (National portfolio · West · South · North · East), 22 screens with titles, Campaign Strategy Studio tabs and the Back/Next chain (`src/screens/mh/Blank.tsx`) | Done |
-| 1 | Data and tests (regions, opportunity, plans, diagnosis and investigation, recommendations, theme lifecycle shared with BH and ZM, proposals, rollout, performance); BH theme-queue alignment | Next |
-| 2–6 | Screens 1–5, 6–11, 12–16, 17–21, 22; cross-persona verification and deploy | Planned |
+| 1 | Data (`src/data/mh.ts`, tested in `mh.test.ts`): regional opportunity (₹1,350 Cr; BH region figures), theme effectiveness (BH themes), West states and the Maharashtra onion market, plans (Ambad = FSM / ZM), diagnosis funnel (1,200 → 780 → 150 → 54, 36%), 3 evidence requests, recommendations, proposals (= ZM / BH), rollout (₹12.0 L envelope), performance (= BH). Theme lifecycle is one shared record: MH reads and writes the BH and ZM stores. BH queue: Croptek conversion approved; Multi-region retailer advocacy, North awareness and the new Paddy nutrition programme pending (tracker item re-pointed to the Paddy theme). ZM: Croptek theme acknowledged, C1 and C2 submitted to the Marketing Head; proposal statuses draft · submitted · returned · resubmitted · approved | Done |
+| 2 | Screens 1–5 (overview, regional opportunity, plan reviews) | Next |
+| 3–6 | Screens 6–11, 12–16, 17–21, 22; cross-persona verification and deploy | Planned |
 
